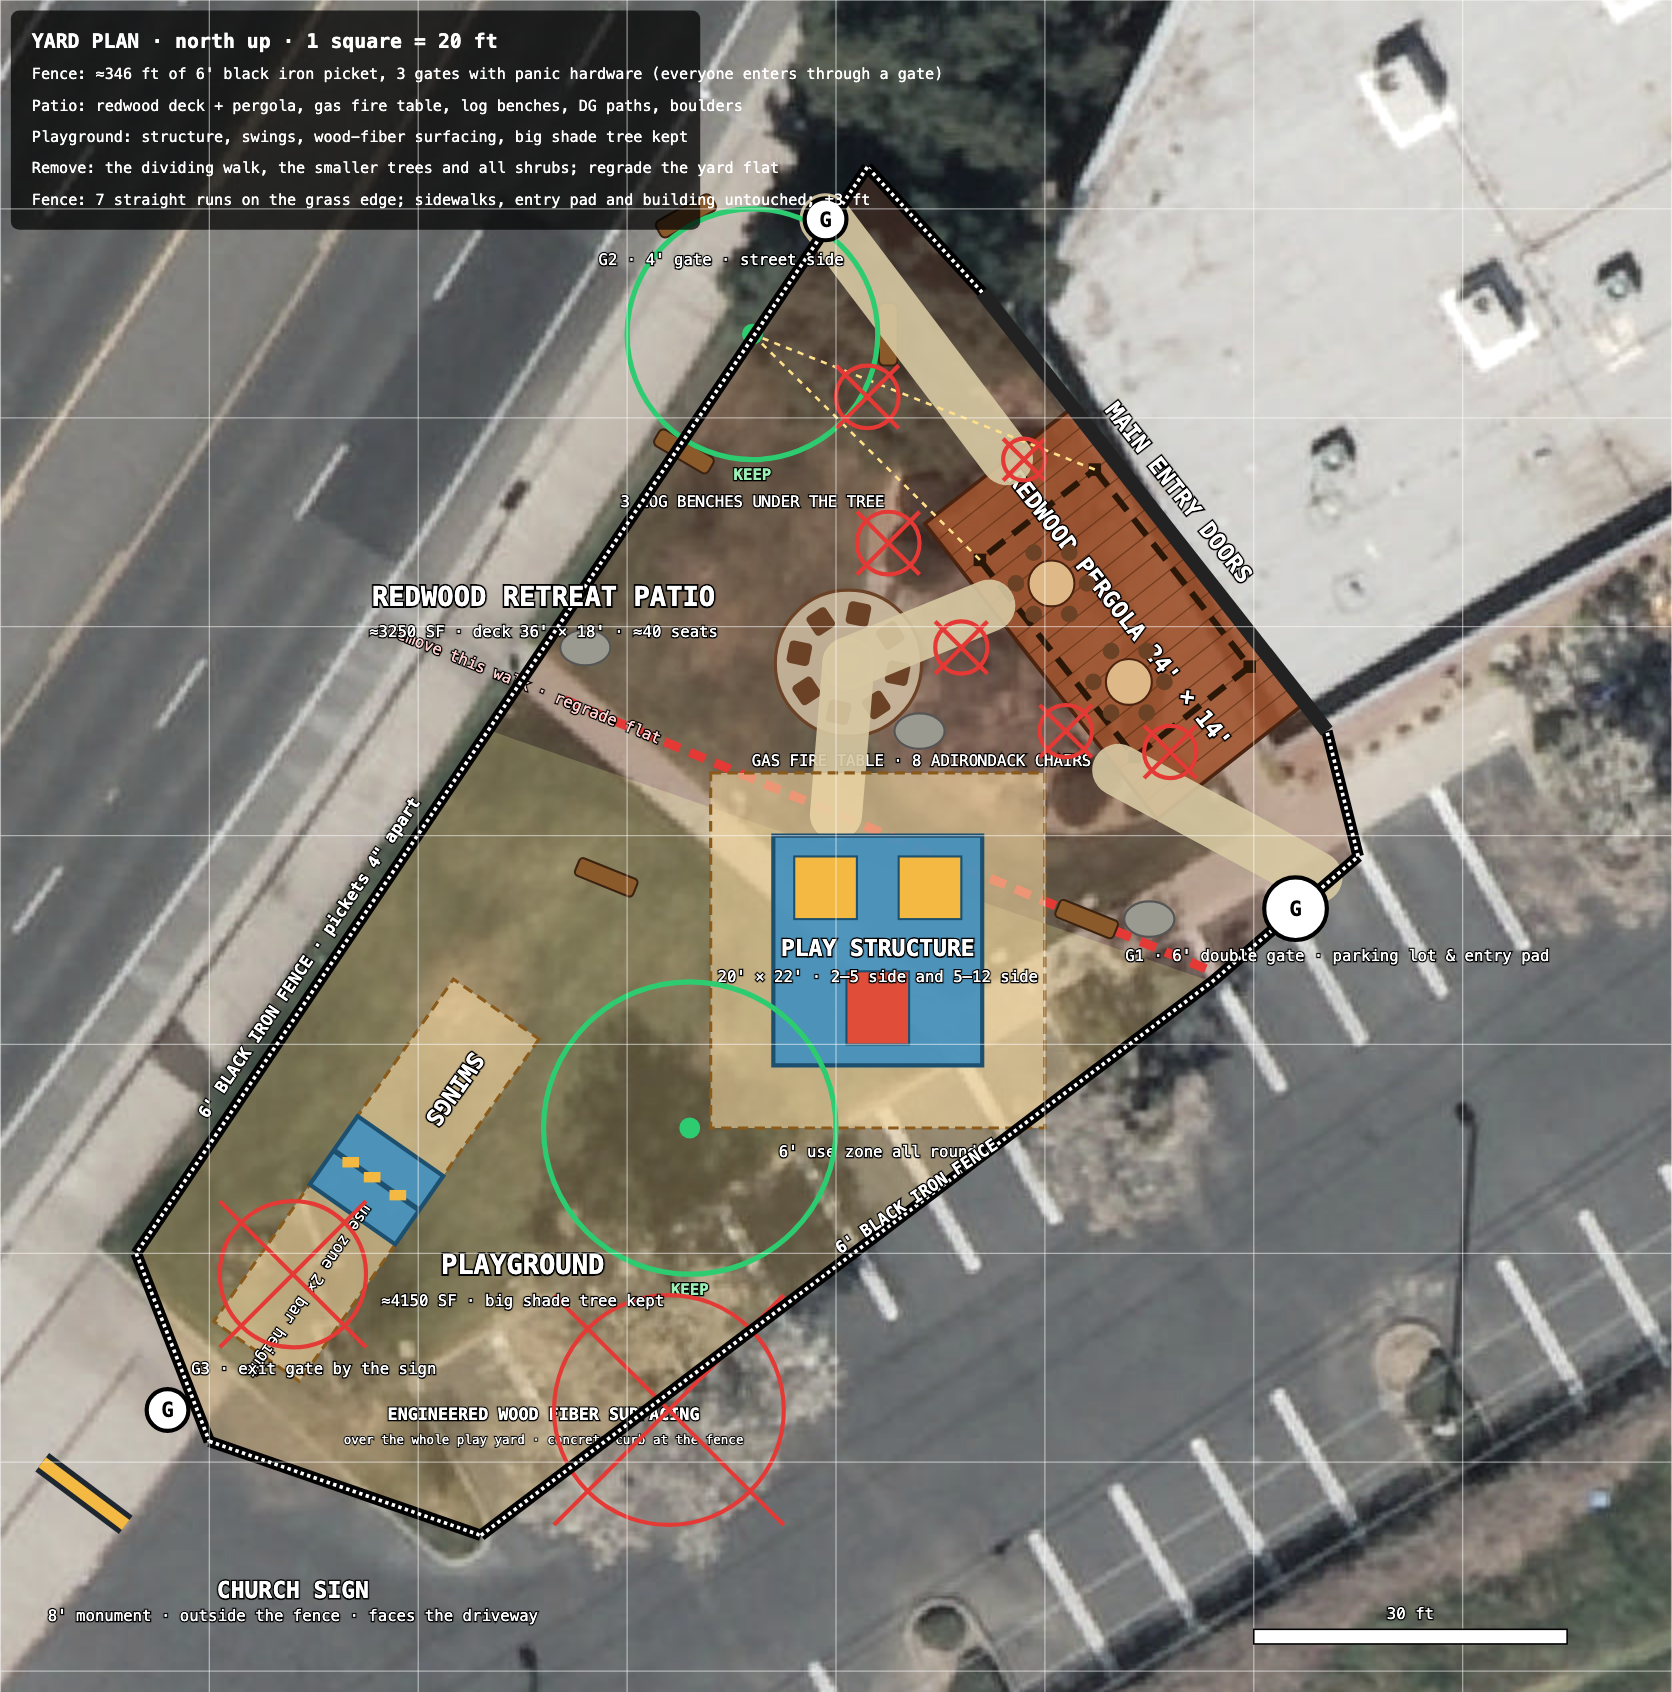
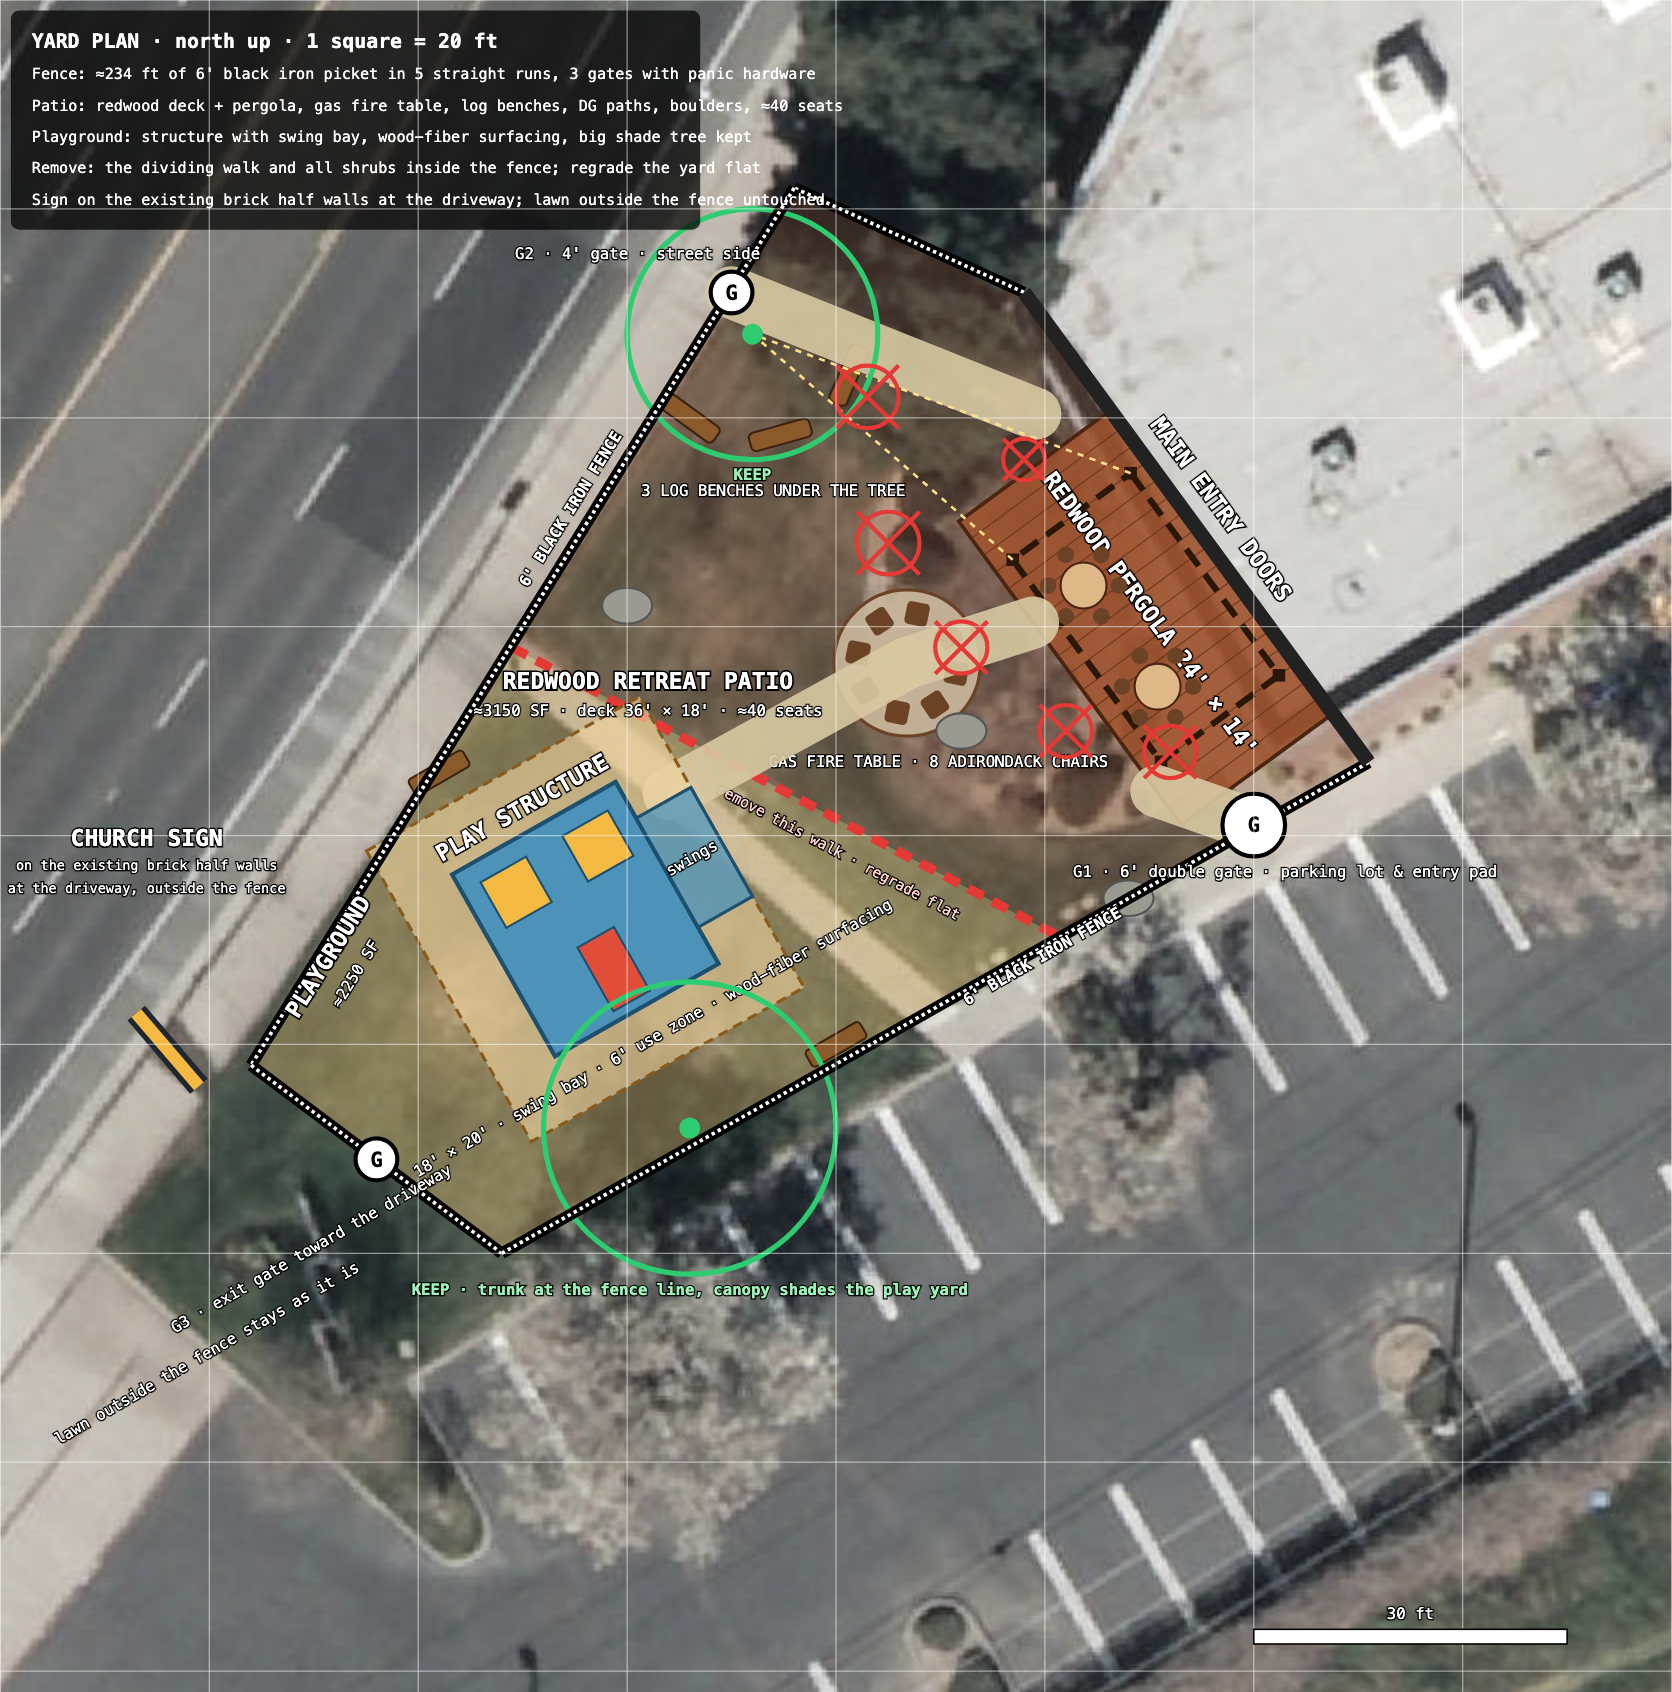
Yard plan on Rocky's fence line

diff --git a/exterior.html b/exterior.html
@@ -65,8 +65,8 @@
   <p>The idea from the rendering: keep the brick, add a white gabled entry with a steeple at the left front door, and a fenced lawn with play structure along the road. Drawn here to the building's real height so the proportions are honest; the steeple shown tops out about 55 ft above grade.</p>
   <div class="plan" id="concept"></div>
 
-  <h2>The yard <span class="tag">fenced playground and redwood retreat patio · approved 2026-10-21</span></h2>
-  <p>Drawn on the aerial photo, north up, one grid square = 20 ft. The whole green space between the road sidewalk and the parking-lot sidewalk becomes one yard inside a 6 ft black iron picket fence (pickets 4 in apart, about 346 ft, seven straight runs on the grass edge, three gates with panic hardware; everyone enters through a gate). The church sign stands just outside the fence at the driveway. The big lawn becomes the playground (about 4,150 SF: play structure with a 2 to 5 side and a 5 to 12 side, swings, engineered wood fiber, the big shade tree kept). Between the playground and the entry is the Lake Tahoe inspired redwood retreat patio (about 3,250 SF: 36 by 18 ft redwood deck with a 24 by 14 ft pergola, gas fire table with eight Adirondack chairs, three log benches under the tree, boulders, decomposed-granite paths, string lights; about 40 seats). The walk that split the two lawns, the two smaller trees and all the shrubs come out and the yard is regraded flat. Dimensions are within about 3 ft; the property line is assumed at the back of the sidewalk.</p>
+  <h2>The yard <span class="tag">fenced playground and redwood retreat patio · fence line drawn by Rocky 2026-10-21</span></h2>
+  <p>Drawn on the aerial photo, north up, one grid square = 20 ft. A 6 ft black iron picket fence (pickets 4 in apart, about 234 ft in five straight runs, three gates with panic hardware; everyone enters through a gate) runs from the building's west corner out to the road sidewalk, down the sidewalk, across the lawn just behind the existing brick half walls at the driveway, and straight back to the building's south corner. The church sign goes on those brick half walls, outside the fence. The lawn tip and the strip along the parking lot stay as they are. Inside: the playground (about 2,250 SF: an 18 by 20 ft structure with a 2 to 5 side, a 5 to 12 side and a swing bay, 6 ft use zone, engineered wood fiber; the big shade tree at the fence line keeps its canopy over the play yard) and, between it and the entry, the Lake Tahoe inspired redwood retreat patio (about 3,150 SF: 36 by 18 ft redwood deck with a 24 by 14 ft pergola, gas fire table with eight Adirondack chairs, three log benches under the tree by the street, boulders, decomposed-granite paths, string lights; about 40 seats). The walk that split the two lawns and every shrub inside the fence come out and the yard is regraded flat. Dimensions are within about 3 ft.</p>
   <p><img src="img/yard-plan.png" alt="Yard plan on the aerial photo" style="width:100%;max-width:1100px;border:1px solid var(--rule);border-radius:6px"></p>
 
   <div class="cols">
